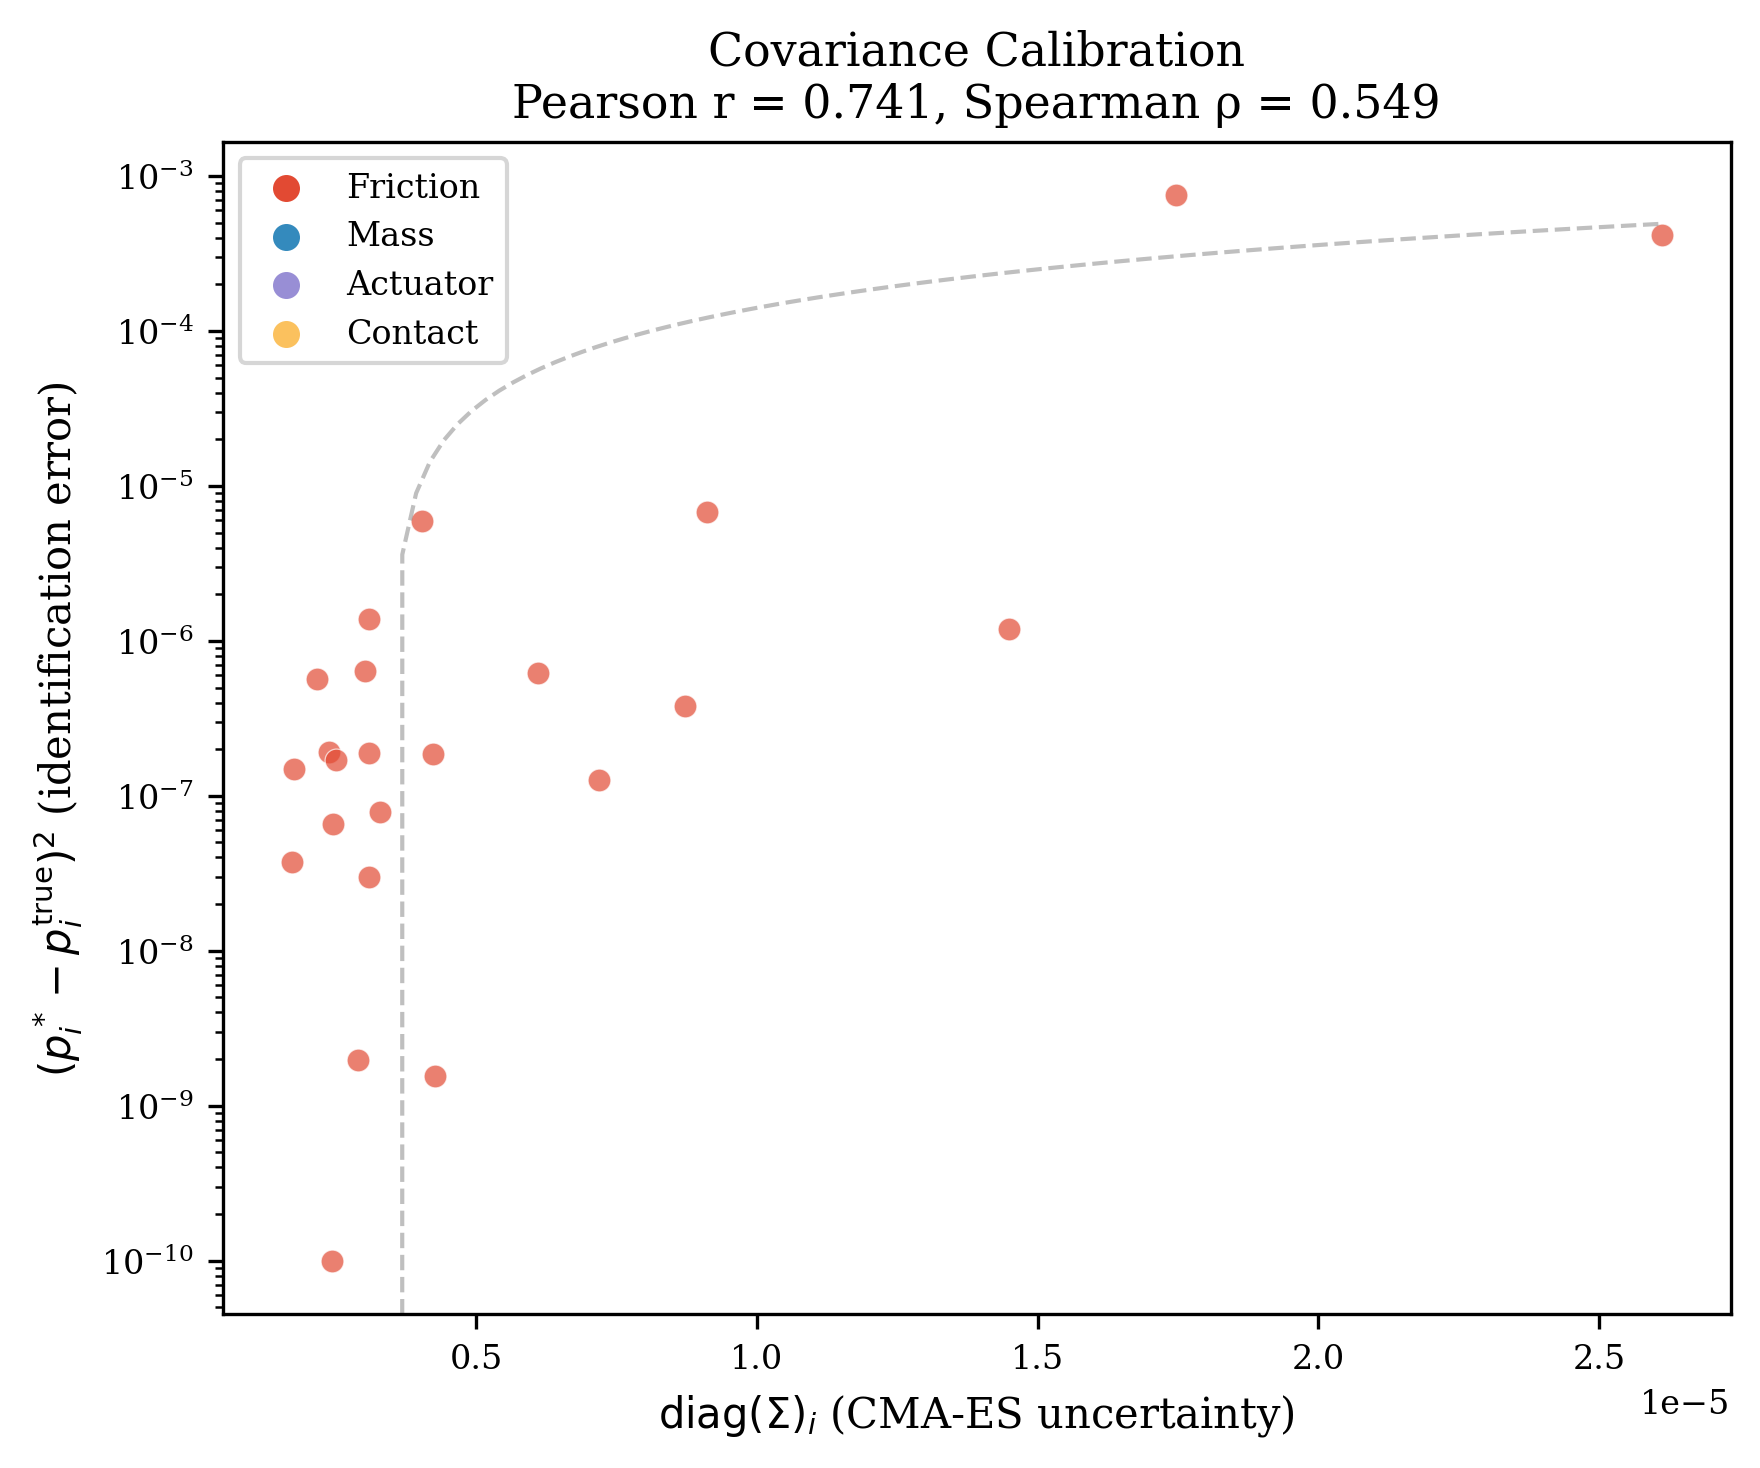
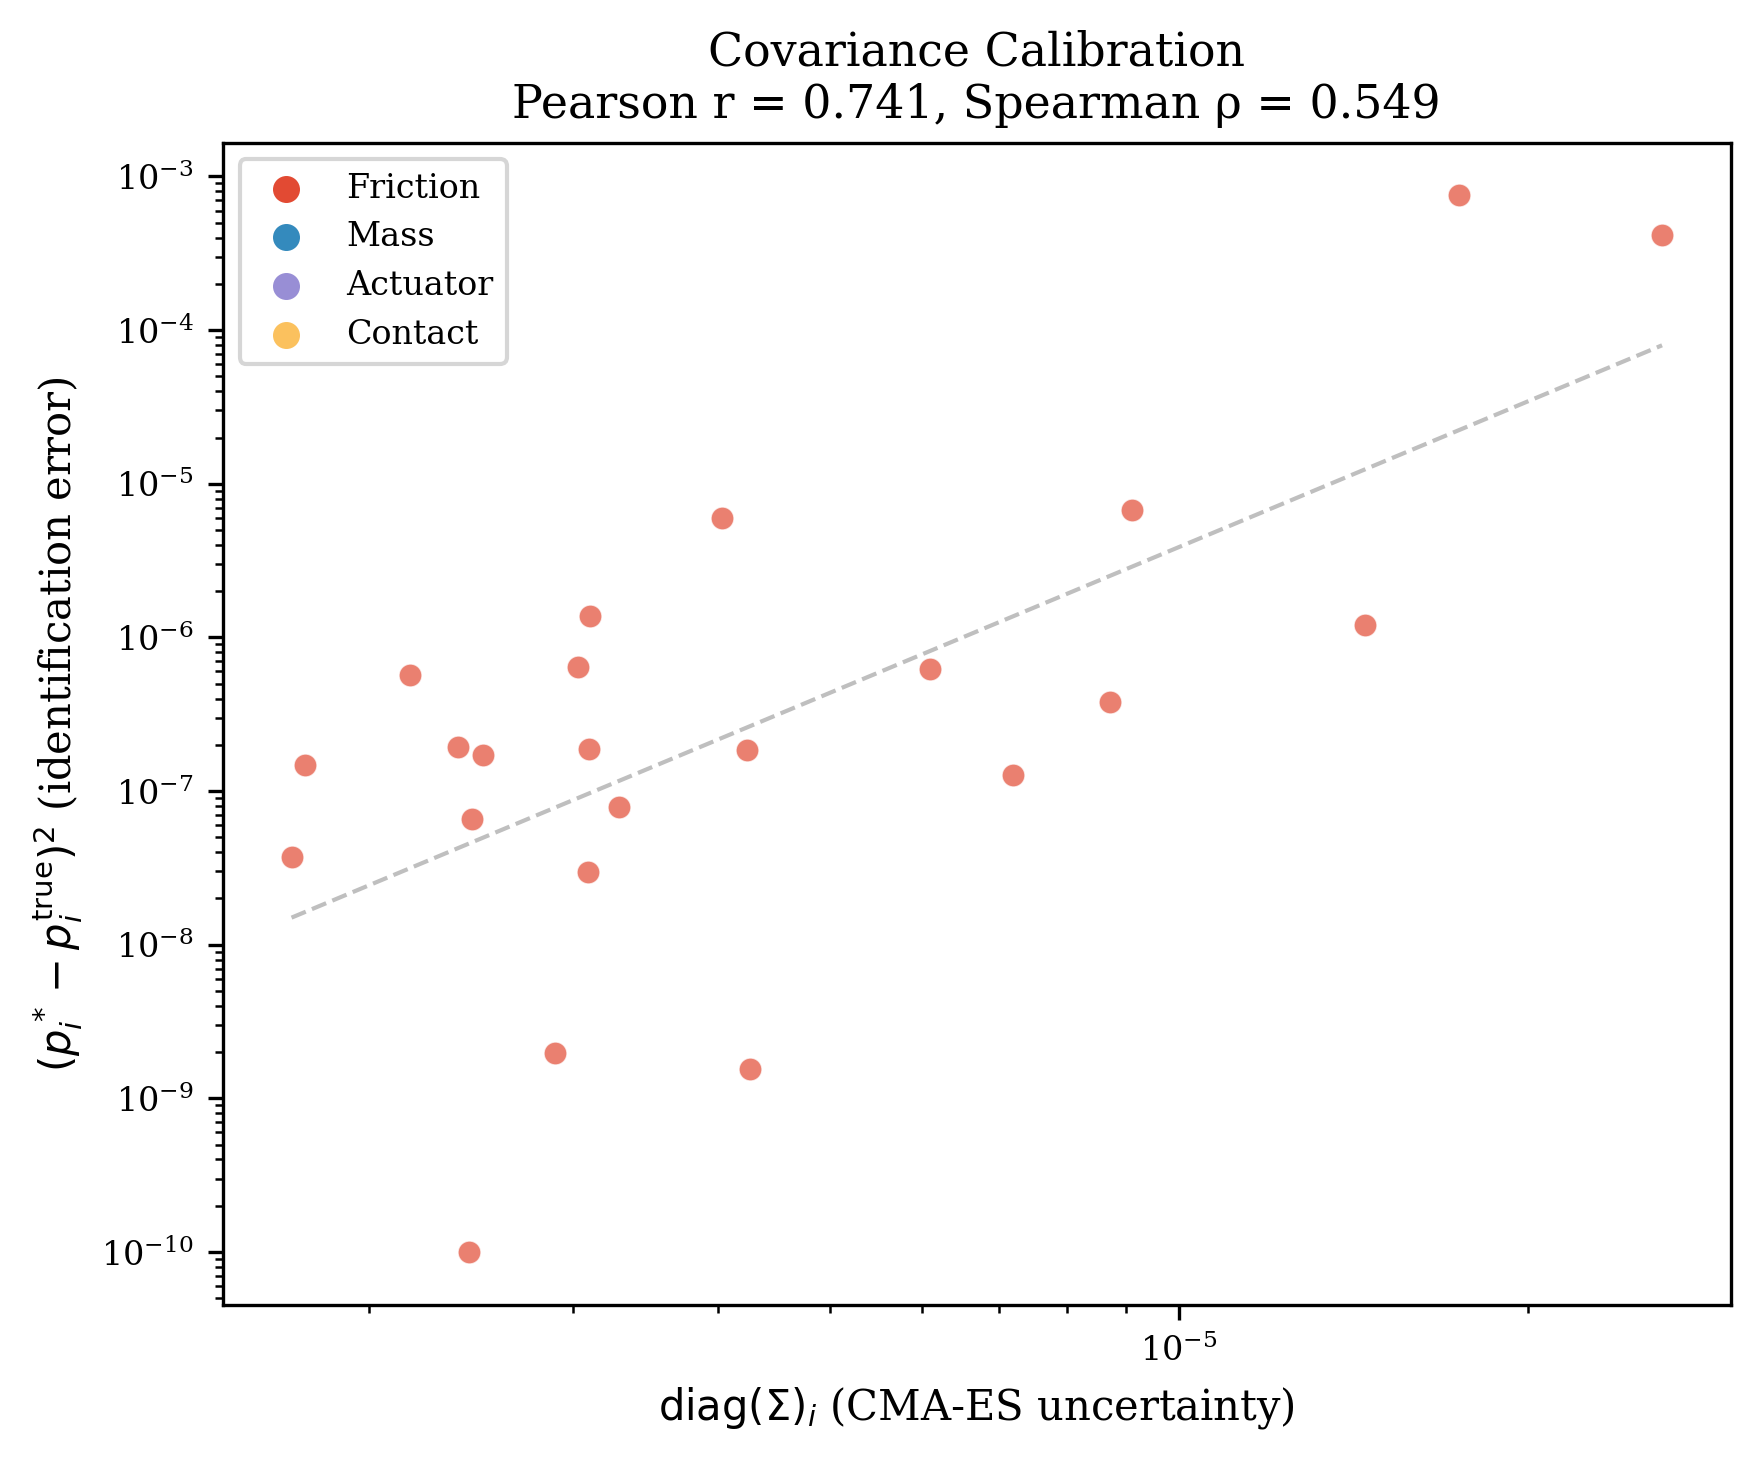
optimal excitation run, big popsize

diff --git a/pgdr/plotting.py b/pgdr/plotting.py
@@ -100,14 +100,15 @@ def plot_covariance_calibration(
             linewidths=0.3,
         )
 
-    # Trend line
+    # Trend line (log-log linear regression: log y = a*log x + b)
     x = np.array([e["uncertainty"] for e in per_param])
     y = np.array([e["sq_error"] for e in per_param])
     if len(x) > 2:
-        z = np.polyfit(x, y, 1)
-        p = np.poly1d(z)
-        x_line = np.linspace(x.min(), x.max(), 100)
-        ax.plot(x_line, p(x_line), "--", color="gray", alpha=0.5, linewidth=1)
+        mask = (x > 0) & (y > 0)
+        if mask.sum() > 2:
+            z = np.polyfit(np.log(x[mask]), np.log(y[mask]), 1)
+            x_line = np.linspace(x[mask].min(), x[mask].max(), 100)
+            ax.plot(x_line, np.exp(z[1]) * x_line ** z[0], "--", color="gray", alpha=0.5, linewidth=1)
 
     # Legend for groups
     for group, color in GROUP_COLORS.items():
@@ -121,11 +122,8 @@ def plot_covariance_calibration(
         f"Pearson r = {pearson:.3f}, Spearman ρ = {spearman:.3f}"
     )
 
-    # Log scale if range is large
-    if x.max() / max(x.min(), 1e-10) > 100:
-        ax.set_xscale("log")
-    if y.max() / max(y.min(), 1e-10) > 100:
-        ax.set_yscale("log")
+    ax.set_xscale("log")
+    ax.set_yscale("log")
 
     fig.tight_layout()
     Path(save_path).parent.mkdir(parents=True, exist_ok=True)